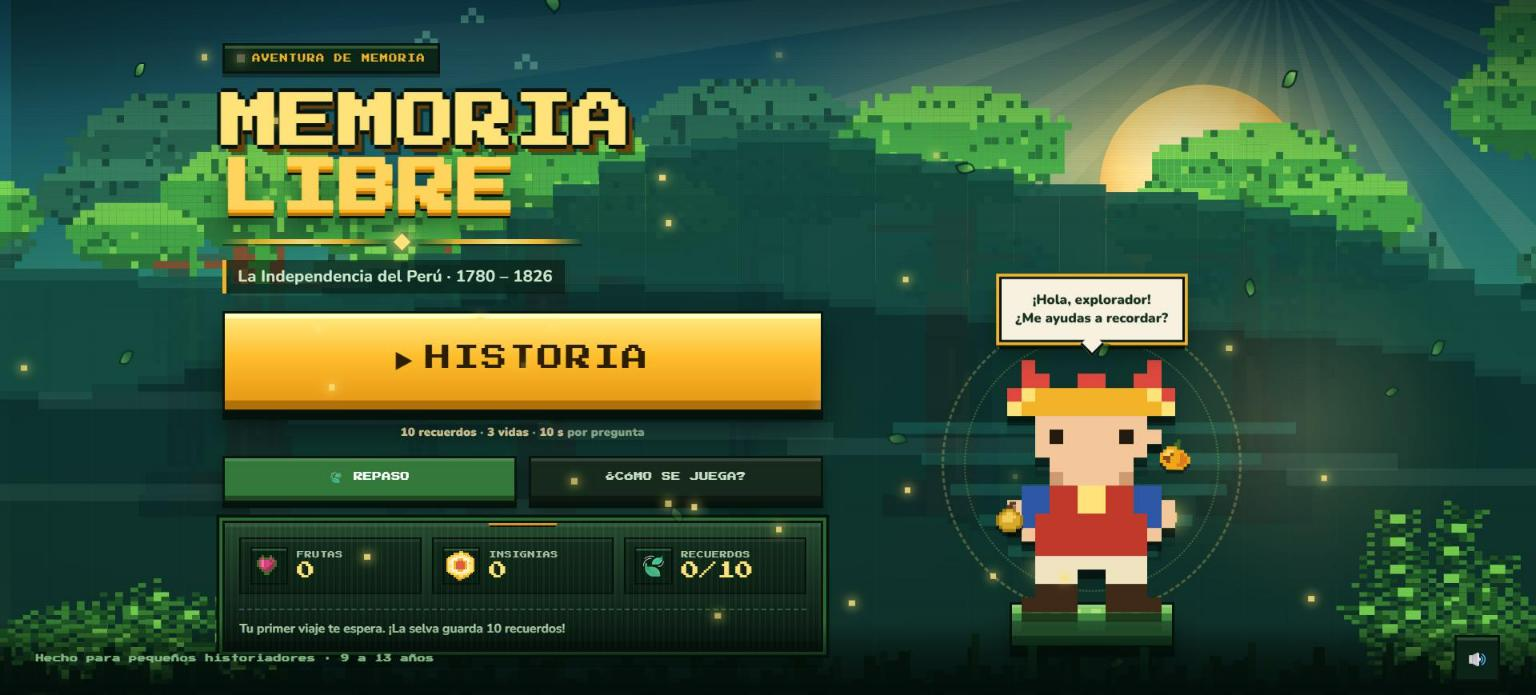
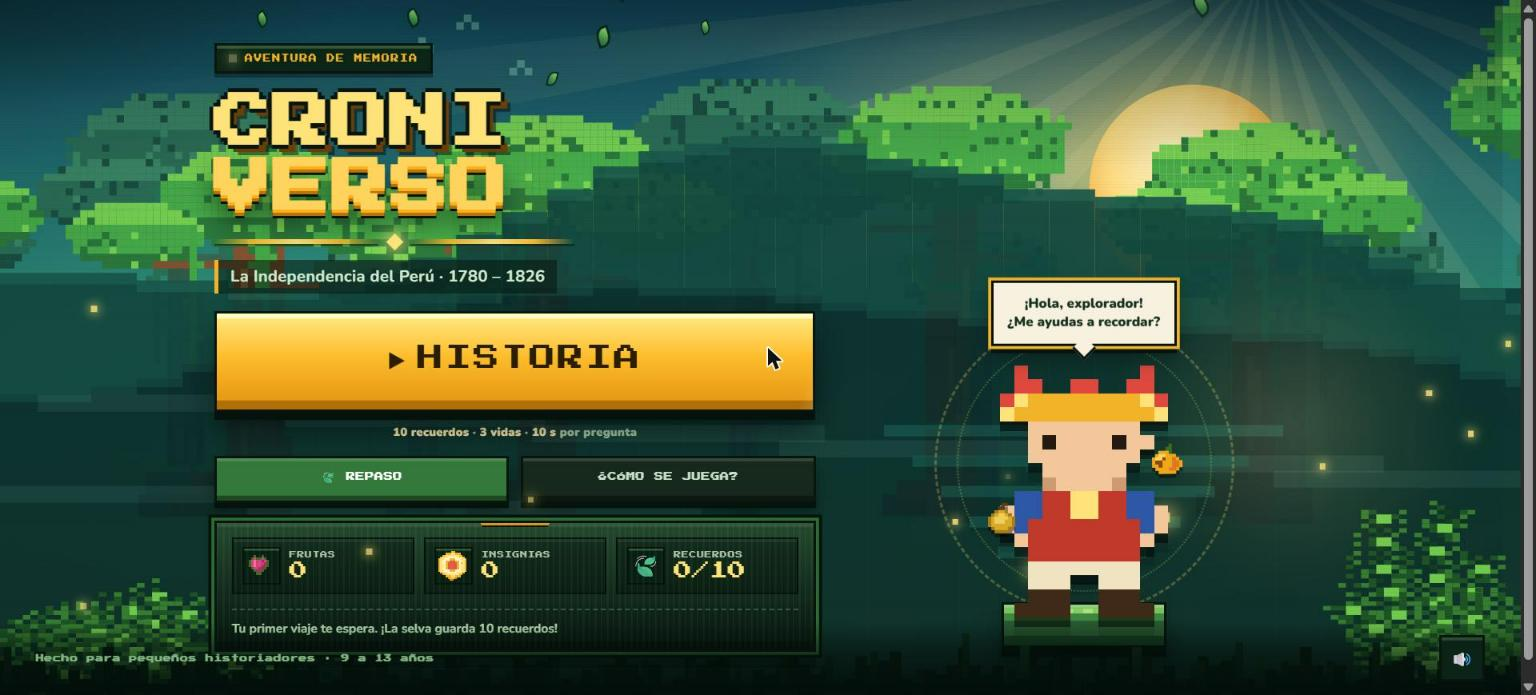
Rename app to Croniverso

diff --git a/index.html b/index.html
@@ -5,7 +5,7 @@
   <meta name="viewport" content="width=device-width, initial-scale=1, viewport-fit=cover" />
   <meta name="theme-color" content="#08251c" />
   <meta name="color-scheme" content="dark" />
-  <title>Memoria Libre · La Independencia del Perú</title>
+  <title>Croniverso · La Independencia del Perú</title>
   <meta name="description" content="Videojuego pixel art para aprender y recordar la Independencia del Perú. Para exploradores de 9 a 13 años." />
   <link rel="preconnect" href="https://fonts.googleapis.com" />
   <link rel="preconnect" href="https://fonts.gstatic.com" crossorigin />
@@ -36,9 +36,9 @@
       <div class="menu__main">
         <div class="brand">
           <span class="brand__chip"><i class="brand__dot"></i> AVENTURA DE MEMORIA</span>
-          <h1 class="brand__title">
-            <span class="brand__line1">MEMORIA</span>
-            <span class="brand__line2">LIBRE</span>
+          <h1 class="brand__title" aria-label="Croniverso">
+            <span class="brand__line1">CRONI</span>
+            <span class="brand__line2">VERSO</span>
           </h1>
           <div class="brand__rule" aria-hidden="true"><i></i><b></b><i></i></div>
           <p class="brand__sub">La Independencia del Perú · 1780 – 1826</p>
@@ -425,7 +425,7 @@
 
 <noscript>
   <div style="padding:24px;font-family:sans-serif;color:#fff;background:#0d2b1f;min-height:100vh">
-    Necesitas activar JavaScript para jugar Memoria Libre.
+    Necesitas activar JavaScript para jugar Croniverso.
   </div>
 </noscript>
 

diff --git a/js/scene.js b/js/scene.js
@@ -1,5 +1,5 @@
 /* =====================================================================
-   MEMORIA LIBRE — Escenario de selva pixel art generado por código
+   CRONIVERSO — Escenario de selva pixel art generado por código
    Capas con parallax: fondo lejano, árboles, suelo, enredaderas.
    ===================================================================== */
 window.SCENE = (function () {

diff --git a/js/sprites.js b/js/sprites.js
@@ -1,5 +1,5 @@
 /* =====================================================================
-   MEMORIA LIBRE — Sprites pixel art (SVG generado píxel a píxel)
+   CRONIVERSO — Sprites pixel art (SVG generado píxel a píxel)
    ===================================================================== */
 window.PIXEL = (function () {
   'use strict';

diff --git a/js/data.js b/js/data.js
@@ -1,5 +1,5 @@
 /* =====================================================================
-   MEMORIA LIBRE — Contenido histórico
+   CRONIVERSO — Contenido histórico
    Bloque 1: La Independencia del Perú (1780 – 1826)
    ===================================================================== */
 window.GAME_DATA = (function () {

diff --git a/js/app.js b/js/app.js
@@ -1,5 +1,5 @@
 /* =====================================================================
-   MEMORIA LIBRE — Lógica del juego
+   CRONIVERSO — Lógica del juego
    ===================================================================== */
 (function () {
   'use strict';

diff --git a/css/style.css b/css/style.css
@@ -1,5 +1,5 @@
 /* =====================================================================
-   MEMORIA LIBRE — Estilos
+   CRONIVERSO — Estilos
    ===================================================================== */
 
 :root {

diff --git a/README.md b/README.md
@@ -1,9 +1,9 @@
-# 🌿 Memoria Libre
+# 🌿 Croniverso
 
 **Videojuego educativo en pixel art para aprender y recordar la Independencia del Perú (1780 – 1826).**
 Pensado para exploradores de **9 a 13 años**. Corre en cualquier navegador, sin instalar nada.
 
-![Menú principal de Memoria Libre](docs/img/01-menu.jpg)
+![Menú principal de Croniverso](docs/img/01-menu.jpg)
 
 ---
 
